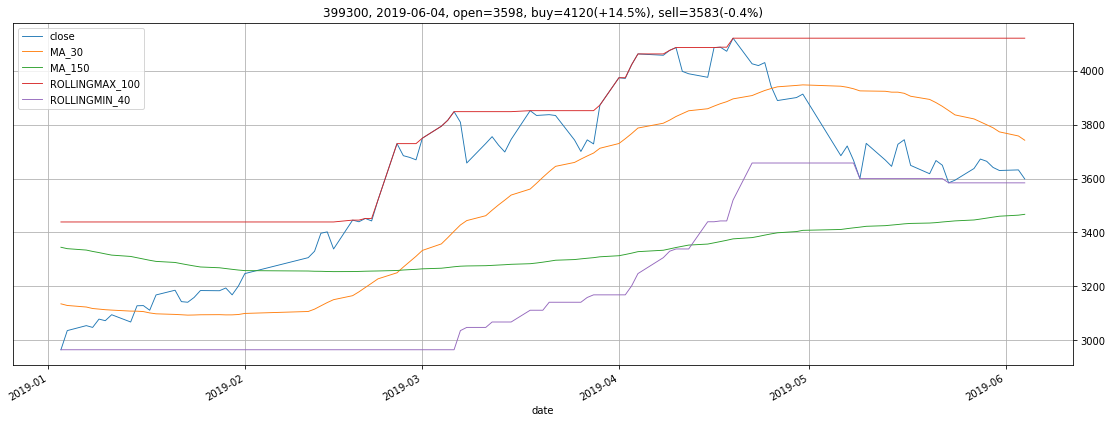
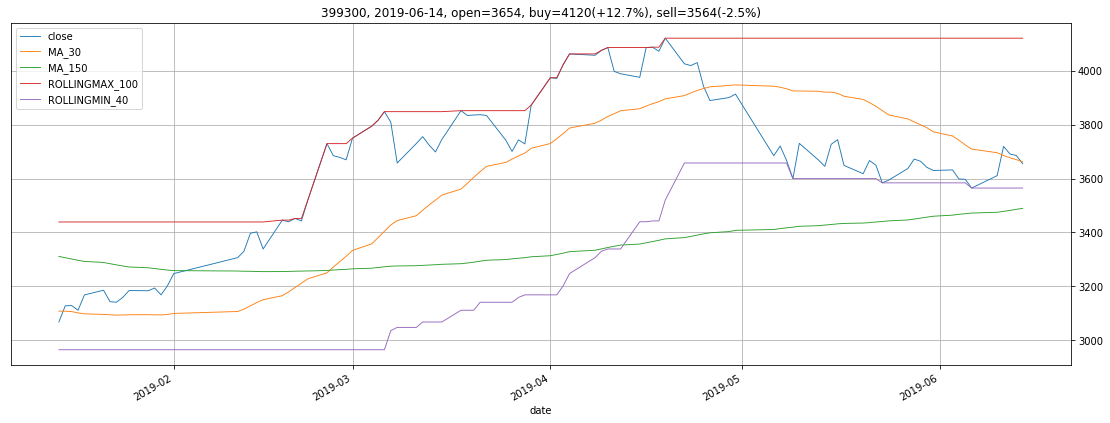
Daily Update.

diff --git a/mdr/index.md b/mdr/index.md
@@ -34,10 +34,6 @@ display(HTML("<style>.container { width:70% !important; }</style>"))
 ```python
 %%capture
 %run -t monitor_daily_rotation.ipynb
-```
-
-
-```python
 %store -r MONITOR_TARGET
 %store -r stock_df_dict
 ```
@@ -124,82 +120,82 @@ monitor_df
     <tr>
       <th>0</th>
       <td>399300</td>
-      <td>2019-06-04</td>
-      <td>3598.470</td>
-      <td>3648.254706</td>
-      <td>-1.38%</td>
-      <td>-1.40%</td>
-      <td>3649.3800</td>
+      <td>2019-06-13</td>
+      <td>3685.3900</td>
+      <td>3637.478824</td>
+      <td>1.30%</td>
+      <td>1.21%</td>
+      <td>3641.180</td>
     </tr>
     <tr>
       <th>1</th>
       <td>000905</td>
-      <td>2019-06-04</td>
-      <td>4795.410</td>
-      <td>4946.261176</td>
-      <td>-3.15%</td>
-      <td>-3.64%</td>
-      <td>4976.3900</td>
+      <td>2019-06-13</td>
+      <td>4877.6500</td>
+      <td>4876.137647</td>
+      <td>0.03%</td>
+      <td>-0.99%</td>
+      <td>4926.400</td>
     </tr>
     <tr>
       <th>2</th>
       <td>399006</td>
-      <td>2019-06-04</td>
-      <td>1456.270</td>
-      <td>1486.739412</td>
-      <td>-2.09%</td>
-      <td>-2.17%</td>
-      <td>1488.6300</td>
+      <td>2019-06-13</td>
+      <td>1479.8300</td>
+      <td>1470.950000</td>
+      <td>0.60%</td>
+      <td>-0.36%</td>
+      <td>1485.240</td>
     </tr>
     <tr>
       <th>3</th>
       <td>BTC</td>
-      <td>2019-06-04</td>
-      <td>7942.000</td>
-      <td>7681.076667</td>
-      <td>3.29%</td>
-      <td>-6.26%</td>
-      <td>8472.4000</td>
+      <td>2019-06-15</td>
+      <td>8749.2000</td>
+      <td>8097.810000</td>
+      <td>7.45%</td>
+      <td>4.33%</td>
+      <td>8386.000</td>
     </tr>
     <tr>
       <th>4</th>
       <td>EOS</td>
-      <td>2019-06-04</td>
-      <td>6.734</td>
-      <td>6.350367</td>
-      <td>5.70%</td>
-      <td>-7.37%</td>
-      <td>7.2700</td>
+      <td>2019-06-15</td>
+      <td>6.6760</td>
+      <td>6.704833</td>
+      <td>-0.43%</td>
+      <td>4.28%</td>
+      <td>6.402</td>
     </tr>
     <tr>
       <th>5</th>
       <td>ETH</td>
-      <td>2019-06-04</td>
-      <td>248.840</td>
-      <td>234.040000</td>
-      <td>5.95%</td>
-      <td>-4.17%</td>
-      <td>259.6600</td>
+      <td>2019-06-15</td>
+      <td>264.5800</td>
+      <td>253.171000</td>
+      <td>4.31%</td>
+      <td>3.39%</td>
+      <td>255.900</td>
     </tr>
     <tr>
       <th>6</th>
       <td>XRP</td>
-      <td>2019-06-04</td>
-      <td>0.412</td>
-      <td>0.383503</td>
-      <td>6.92%</td>
-      <td>-6.53%</td>
-      <td>0.4408</td>
+      <td>2019-06-15</td>
+      <td>0.4071</td>
+      <td>0.406710</td>
+      <td>0.10%</td>
+      <td>3.32%</td>
+      <td>0.394</td>
     </tr>
     <tr>
       <th>7</th>
       <td>LTC</td>
-      <td>2019-06-04</td>
-      <td>104.160</td>
-      <td>95.597667</td>
-      <td>8.22%</td>
-      <td>-6.23%</td>
-      <td>111.0800</td>
+      <td>2019-06-15</td>
+      <td>134.4800</td>
+      <td>109.654333</td>
+      <td>18.46%</td>
+      <td>4.98%</td>
+      <td>128.100</td>
     </tr>
   </tbody>
 </table>
@@ -208,33 +204,33 @@ monitor_df
 
 
 
-![png](output_3_1.png)
+![png](output_2_1.png)
 
 
 
-![png](output_3_2.png)
+![png](output_2_2.png)
 
 
 
-![png](output_3_3.png)
+![png](output_2_3.png)
 
 
 
-![png](output_3_4.png)
+![png](output_2_4.png)
 
 
 
-![png](output_3_5.png)
+![png](output_2_5.png)
 
 
 
-![png](output_3_6.png)
+![png](output_2_6.png)
 
 
 
-![png](output_3_7.png)
+![png](output_2_7.png)
 
 
 
-![png](output_3_8.png)
+![png](output_2_8.png)
 

diff --git a/mds/index.md b/mds/index.md
@@ -116,32 +116,32 @@ monitor_df
     <tr>
       <th>0</th>
       <td>399300</td>
-      <td>2019-06-04</td>
-      <td>3598.47</td>
+      <td>2019-06-14</td>
+      <td>3654.88</td>
       <td>4120.61</td>
-      <td>+14.51%</td>
-      <td>3583.96</td>
-      <td>-0.40%</td>
+      <td>+12.74%</td>
+      <td>3564.68</td>
+      <td>-2.47%</td>
     </tr>
     <tr>
       <th>1</th>
       <td>000905</td>
-      <td>2019-06-04</td>
-      <td>4795.41</td>
-      <td>5810.18</td>
-      <td>+21.16%</td>
-      <td>4795.41</td>
-      <td>-0.00%</td>
+      <td>2019-06-14</td>
+      <td>4795.53</td>
+      <td>5307.56</td>
+      <td>+10.68%</td>
+      <td>4678.78</td>
+      <td>-2.43%</td>
     </tr>
     <tr>
       <th>2</th>
       <td>399006</td>
-      <td>2019-06-04</td>
-      <td>1456.27</td>
+      <td>2019-06-14</td>
+      <td>1453.96</td>
       <td>1777.26</td>
-      <td>+22.04%</td>
-      <td>1443.75</td>
-      <td>-0.86%</td>
+      <td>+22.24%</td>
+      <td>1416.06</td>
+      <td>-2.61%</td>
     </tr>
   </tbody>
 </table>
